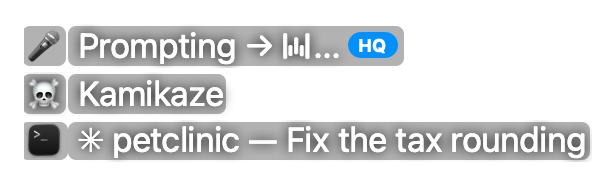
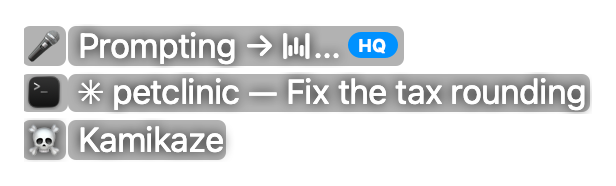
☠ Kamikaze is the chip's last row; the local model's 💻 loses its ᵥ
Victor: "scoate de după laptop V-ul mic … pune doar laptop, fără V" and
"Kamikaze în tooltip vine mereu … ultimul". The ☠ row now sits under the
destination row on the chip (the prompt panel keeps its old place); the
engine mark is the bare laptop for every local model, so the
transcribing-lora shot is gone.

Changed region(s): [[0.0308, 0.3763, 0.987, 0.6183], [0.0308, 0.6452, 0.987, 0.8871]]

diff --git a/docs/overlay-states.html b/docs/overlay-states.html
@@ -101,7 +101,7 @@
 <header class="page">
   <h1>Every state of the overlay</h1>
   <p class="sub">
-    All 74 states the Walkie&nbsp;Talkie chip and panel can be in — what each one
+    All 73 states the Walkie&nbsp;Talkie chip and panel can be in — what each one
     is, and the moment it is on screen. The pictures are the real views drawing
     themselves, not mockups.
   </p>
@@ -177,7 +177,7 @@
         </header>
         <div class="shot"><img src="states/listening-kamikaze.png" width="308" height="93" style="opacity:0.8" alt="Kamikaze — the agent closes when done"></div>
         <p class="when">🔼 ↓ while a sentence is open or still on its way. Again takes it back.</p>
-        <p class="note"><strong>A row under the others</strong>, like everything the sentence carries. It says the delivered prompt will end with <code>kamikaze</code> on a line of its own — the agent&#x27;s cue to close its terminal once the job is done. It goes when the sentence is delivered or cancelled, or on a second 🔼 ↓.</p>
+        <p class="note"><strong>Always the last row, under the destination too</strong> (2026-11-22, Victor: <em>&quot;Kamikaze în tooltip vine mereu … ultimul&quot;</em>). It says the delivered prompt will end with <code>kamikaze</code> on a line of its own — the agent&#x27;s cue to close its terminal once the job is done. It goes when the sentence is delivered or cancelled, or on a second 🔼 ↓.</p>
         <code class="slug">listening-kamikaze</code>
       </section>
       <section class="card" id="listening-model-switch">
@@ -477,16 +477,6 @@
         <p class="when">The words are still in flight and a new sentence would be queued behind them, not refused (Q12; the local model too since 2026-10-21).</p>
         <p class="note"><strong><code>📻 Ready for more</code> is the top row</strong> (2026-10-21, <code>Ready</code> until 2026-10-22, Victor: <em>&quot;even though it&#x27;s transcribing, in the tooltip you should suggest ready whenever I could start talking again by displaying the walkie-talkie at the top of the list … literally saying ready&quot;</em>). The walkie and the row&#x27;s ordinary ink, above the wait — <strong>no green since 2026-10-22</strong>, and the yellow flash of a changed row when it comes up (Victor: <em>&quot;să nu fie cu verde, ci același fond ca de obicei … flash-ul e galben ca de obicei și dispare&quot;</em>) — <strong>on the word <code>Ready</code> alone</strong> since 2026-10-23 (<em>&quot;cuvântul ready, nu și ready for more&quot;</em>), shown here at its brightest. Up from 0.8 s after the stop (a start sooner is the same click) until the words land; never with nothing transcribing, so the chip at rest is what it always was. Not shown while two sentences are already in flight.</p>
         <code class="slug">transcribing-ready</code>
-      </section>
-      <section class="card" id="transcribing-lora">
-        <header>
-          <h3>…on Victor&#x27;s own model</h3>
-          <div class="tags"><span class="tag tag-chip" title="bare text beside the cursor — no blur, no shadow, no ✕">chip</span><span class="tag">alpha 0.80</span><span class="tag">308×93 pt</span></div>
-        </header>
-        <div class="shot"><img src="states/transcribing-lora.png" width="308" height="93" style="opacity:0.8" alt="…on Victor&#x27;s own model"></div>
-        <p class="when">The wait, when the local model is the Engine and its weights are the LoRA trained on his voice.</p>
-        <p class="note"><strong>A subscript <code>ᵥ</code> after the local model&#x27;s 💻</strong> (2026-10-04, Victor: <em>&quot;pune un v mic după acel măr … dacă e modelul meu cu Lora&quot;</em>, then <em>&quot;ca indice&quot;</em>, and the apple became the laptop: <em>&quot;ca să se înțeleagă local&quot;</em>) — on <code>Transcribing via</code> and on the listening row&#x27;s arrow alike. Small and lowered in the font itself, and it fills with the bar like the letters round it. The published Turbo weights wear the bare laptop.</p>
-        <code class="slug">transcribing-lora</code>
       </section>
       <section class="card" id="transcribing-local-now">
         <header>
@@ -896,7 +886,7 @@
       </section>
     </div>
 <footer>
-  Generated from <code>OverlayStates.swift</code> · repo at 221ff1be · 20 Nov 2026 · built 21 Nov 2026, 19:12
+  Generated from <code>OverlayStates.swift</code> · repo at e4ea3839 · 22 Nov 2026 · built 22 Nov 2026, 00:17
 </footer>
 <button class="toggle" onclick="document.body.classList.toggle('light')">Backdrop: dark / light</button>
 </body>

diff --git a/Sources/WalkieTalkie/OverlayStates.swift b/Sources/WalkieTalkie/OverlayStates.swift
@@ -104,7 +104,7 @@ enum OverlayStates {
 
             Shot(slug: "listening-kamikaze", group: "Dictating", title: "Kamikaze — the agent closes when done",
                  when: "🔼 ↓ while a sentence is open or still on its way. Again takes it back.",
-                 note: "**A row under the others**, like everything the sentence carries. It says the delivered prompt will end with `kamikaze` on a line of its own — the agent's cue to close its terminal once the job is done. It goes when the sentence is delivered or cancelled, or on a second 🔼 ↓.",
+                 note: "**Always the last row, under the destination too** (2026-11-22, Victor: *\"Kamikaze în tooltip vine mereu … ultimul\"*). It says the delivered prompt will end with `kamikaze` on a line of its own — the agent's cue to close its terminal once the job is done. It goes when the sentence is delivered or cancelled, or on a second 🔼 ↓.",
                  shape: "chip", alpha: 0.80) { o in
                 o.setBound(label: "petclinic", folder: "petclinic@main", title: "✳ petclinic — Fix the tax rounding", icon: terminal)
                 o.setListening(true)
@@ -380,7 +380,7 @@ enum OverlayStates {
                  note: "**`📻 Ready for more` is the top row** (2026-10-21, `Ready` until 2026-10-22, Victor: *\"even though it's transcribing, in the tooltip you should suggest ready whenever I could start talking again by displaying the walkie-talkie at the top of the list … literally saying ready\"*). The walkie and the row's ordinary ink, above the wait — **no green since 2026-10-22**, and the yellow flash of a changed row when it comes up (Victor: *\"să nu fie cu verde, ci același fond ca de obicei … flash-ul e galben ca de obicei și dispare\"*) — **on the word `Ready` alone** since 2026-10-23 (*\"cuvântul ready, nu și ready for more\"*), shown here at its brightest. Up from 0.8 s after the stop (a start sooner is the same click) until the words land; never with nothing transcribing, so the chip at rest is what it always was. Not shown while two sentences are already in flight.",
                  shape: "chip", alpha: 0.80) { o in
                 o.setBound(label: "petclinic", folder: "petclinic@main", title: "✳ petclinic — Fix the tax rounding", icon: terminal)
-                o.setEngineMark(" via \(Glyphs.Engine.mac.rawValue) \(Glyphs.loraMark)")
+                o.setEngineMark(" via \(Glyphs.Engine.mac.rawValue)")
                 o.setTranscribing(true)
                 o.setReadyForNext(true)
                 o.setShotCount(1)
@@ -388,16 +388,6 @@ enum OverlayStates {
                 o.pinChangePulse()
             },
 
-            Shot(slug: "transcribing-lora", group: "Dictating", title: "…on Victor's own model",
-                 when: "The wait, when the local model is the Engine and its weights are the LoRA trained on his voice.",
-                 note: "**A subscript `ᵥ` after the local model's 💻** (2026-10-04, Victor: *\"pune un v mic după acel măr … dacă e modelul meu cu Lora\"*, then *\"ca indice\"*, and the apple became the laptop: *\"ca să se înțeleagă local\"*) — on `Transcribing via` and on the listening row's arrow alike. Small and lowered in the font itself, and it fills with the bar like the letters round it. The published Turbo weights wear the bare laptop.",
-                 shape: "chip", alpha: 0.80) { o in
-                o.setBound(label: "petclinic", folder: "petclinic@main", title: "✳ petclinic — Fix the tax rounding", icon: terminal)
-                o.setEngineMark(" via \(Glyphs.Engine.mac.rawValue) \(Glyphs.loraMark)")
-                o.setTranscribing(true)
-                o.setShotCount(1)
-                o.pinTranscribeWarmth(0.45)
-            },
 
             Shot(slug: "transcribing-local-now", group: "Dictating", title: "⌘⌃X — the local model, now",
                  when: "From one second into the wait for ElevenLabs (or Wispr Flow) with *Fallback ☁ → 💻 (Pre-Transcribe)* off — never while the microphone is open. With it on, the row is the `💻 local in 3s / ⌘⌃X ...` countdown.",

diff --git a/Sources/WalkieTalkie/RelayWindow.swift b/Sources/WalkieTalkie/RelayWindow.swift
@@ -2258,12 +2258,15 @@ private let heardLabel = NSTextField(labelWithString: "")
             modelRow.isHidden = true
         }
 
-        if kamikaze {
+        // ☠ Kamikaze is the chip's last row (2026-11-22) — placed under the
+        // destination row below; here only on the prompt panel.
+        let kamikazeLast = kamikaze && sentPrompt == nil
+        if kamikaze, !kamikazeLast {
             kamikazeInfo.sizeToFit()
             layoutGlyphRow(kamikazeRow, glyph: kamikazeGlyph, label: kamikazeInfo, width: innerWidth)
             kamikazeRow.isHidden = false
             rows.append((kamikazeRow, recordRowHeight))
-        } else {
+        } else if !kamikaze {
             kamikazeRow.isHidden = true
         }
 
@@ -2362,6 +2365,16 @@ private let heardLabel = NSTextField(labelWithString: "")
             rows.append((heldRow, recordRowHeight))
         } else {
             heldRow.isHidden = true
+        }
+
+        // **☠ Kamikaze, always the chip's last row** (2026-11-22, Victor:
+        // *"Kamikaze în tooltip vine mereu … ultimul"*) — under the destination
+        // row too, so the one flag that ends the agent is where the eye lands last.
+        if kamikazeLast {
+            kamikazeInfo.sizeToFit()
+            layoutGlyphRow(kamikazeRow, glyph: kamikazeGlyph, label: kamikazeInfo, width: innerWidth)
+            kamikazeRow.isHidden = false
+            rows.append((kamikazeRow, recordRowHeight))
         }
 
 

diff --git a/Sources/WalkieTalkie/AppDelegate.swift b/Sources/WalkieTalkie/AppDelegate.swift
@@ -326,14 +326,11 @@ final class AppDelegate: NSObject, NSApplicationDelegate {
     /// this is already a bug somewhere above.
     private static func engineMark(_ id: String) -> String {
         switch id {
-        // **A subscript `ᵥ` after the laptop when the weights are Victor's
-        // LoRA** (2026-10-04, Victor: *"pune un v mic după acel măr … dacă e
-        // modelul meu cu Lora"*). Read from the pick, which the helper loads at
-        // the next idle moment — the same moment this mark is next pushed.
-        // A space between the two (2026-10-04, *"pune un spațiu între laptop
-        // și v"*): flush, the subscript read as part of the laptop.
+        // **The bare laptop, whatever the weights** (2026-11-22, Victor: *"scoate
+        // de după laptop V-ul mic … pune doar laptop, fără V"*) — the subscript
+        // `ᵥ` for his LoRA (2026-10-04) is gone from `Prompting →` and
+        // `Transcribing via` alike.
         case "whisper": return String(Glyphs.Engine.mac.rawValue)
-            + (WhisperModels.selected == WhisperModels.original ? "" : " " + String(Glyphs.loraMark))
         case "eleven", "eleven-live": return String(Glyphs.Engine.eleven.rawValue)
         case "wispr": return String(Glyphs.Engine.wispr.rawValue)
         // The default's logo, like `engine(named:)`'s default source.

diff --git a/.claude/rules/overlay-chip.md b/.claude/rules/overlay-chip.md
@@ -76,6 +76,8 @@ yields to `--label`).
 
 ## Rows: order, tally, geometry
 
+- **☠ Kamikaze is the chip's very last row, under the destination** (2026-11-22, Victor: *"Kamikaze în
+  tooltip vine mereu … ultimul"*) — on the prompt panel it keeps its place among the rows.
 - **Row order, top to bottom: the dictation's state, the shots, the quoted highlight, Chrome, and
   the destination last** (2026-10-26, Victor: *"mută simbolul de caret care apare în tooltip mereu să
   vină ultimul, sub toate celelalte … cum are label"*): the row with the map pin or the terminal's
@@ -263,9 +265,9 @@ yields to `--label`).
   simbolul microfonului in fata, inainte de Dictating/Prompting"*, then *"nu trebuie înconjurat cu
   cerc portocaliu, ci doar … emoji-ul normal"* — **no disc**). `AppDelegate.pushMicMark` sends the
   device to `RelayWindow.setRecordDevice` (the bare emoji at `iconInk`) and only `→ <logo>` to
-  `setMicMark`; an unknown device keeps the walkie. The row reads `🎤 Prompting → ⬮...`. **The local model's mark is 💻 (the Apple mark until 2026-10-04) and wears a subscript `ᵥ`
-  (`Glyphs.loraMark`, U+1D65) when the weights are not the published Turbo** — drawn as a letter,
-  filling with the bar (state `transcribing-lora`). The film row's icon is a drawn red dot (2026-10-16; 🎞 from 2026-10-04, 📹 before), glowing three dots across while recording (`filmGlow`), and the trailing 🔴 is gone.
+  `setMicMark`; an unknown device keeps the walkie. The row reads `🎤 Prompting → ⬮...`. **The local model's mark is 💻 (the Apple mark until 2026-10-04), bare whatever the weights** —
+  the subscript `ᵥ` (`Glyphs.loraMark`) for his LoRA, 2026-10-04, went on 2026-11-22 (Victor: *"scoate de
+  după laptop V-ul mic … pune doar laptop, fără V"*), with the `transcribing-lora` shot. The film row's icon is a drawn red dot (2026-10-16; 🎞 from 2026-10-04, 📹 before), glowing three dots across while recording (`filmGlow`), and the trailing 🔴 is gone.
 - **`Listening to 🎤 → ⬮...` since 2026-09-24** (the device moved into the disc on 2026-10-04, above) — the listening row names the recogniser too, after an
   arrow (*"place an arrow and then specify as well the transcription engine"*). Wispr's five bars
   whenever Wispr holds the mic, whatever `Engine` says, and the device glyph is then Wispr's own
